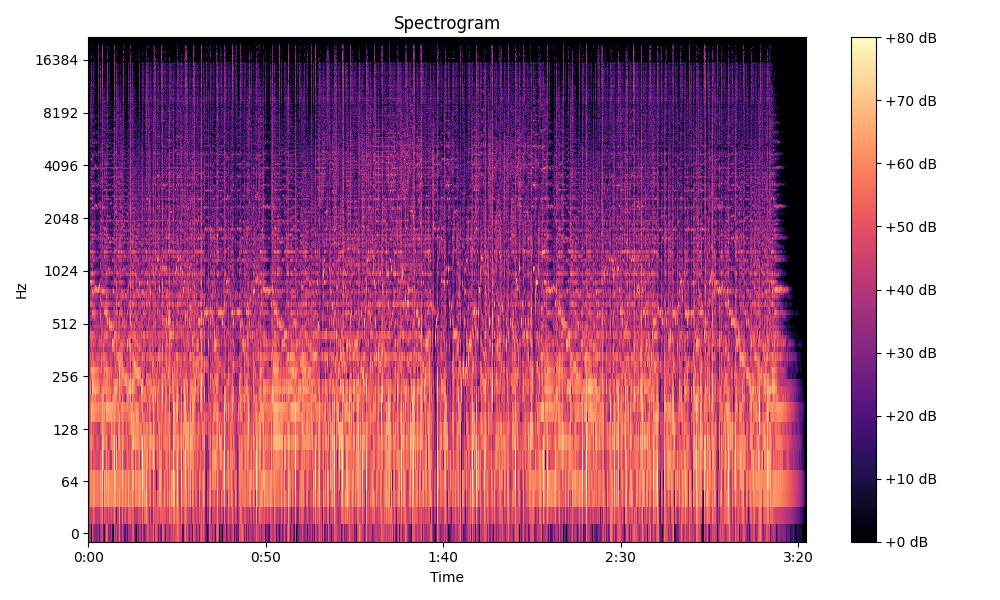
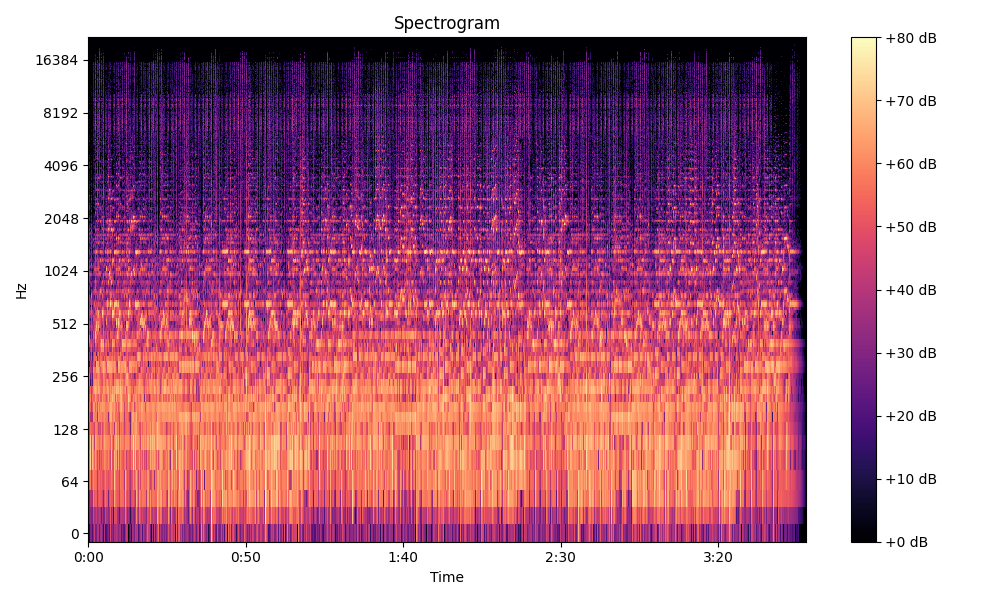
Created a wrapper class for a GUI class, wrapped music_visualizer.py in a function called run_visualizer, fixed various bugs

diff --git a/music_visualizer.py b/music_visualizer.py
@@ -4,99 +4,108 @@ import librosa
 import numpy as np
 import sys
 
+import matplotlib
+matplotlib.use('Agg')  # Use a non-interactive backend for matplotlib
 #Imports for computing a spectrogram
 import matplotlib.pyplot as plt
 import librosa.display
 
 
-#Define config variables
-WINDOW_WIDTH = 800
-WINDOW_HEIGHT = 600
-NUM_BARS = 80
-SMOOTHING_FACTOR = 0.3
-FPS = 60
-AUDIO_FILE = "../music/SmashFull.mp3"
-OUTPUT_SPECTROGRAM_FILE = "spectrogram.png"
+def run_visualizer(gui_object):
+    #Define config variables
+    WINDOW_WIDTH = 800
+    WINDOW_HEIGHT = 600
+    NUM_BARS = 80
+    BAR_COLOR = gui_object.config["bar_color"]
+    SPECTROGRAM_COLOR = gui_object.config["color_map"].get()
+    SMOOTHING_FACTOR = 0.3
+    FPS = 60
+    AUDIO_FILE = gui_object.config["audio_file"]
+    OUTPUT_SPECTROGRAM_FILE = "spectrogram.png"
 
-# Load and play audio asynchronously with librosa
-signal, sr = librosa.load(AUDIO_FILE, sr=None, mono=True)
-#take an absolute valuef the short-time fourier transform of the signal
-s = np.abs(librosa.stft(signal, n_fft=2048, hop_length=512))
+    # Load and play audio asynchronously with librosa
+    signal, sr = librosa.load(AUDIO_FILE, sr=None, mono=True)
+    #take an absolute valuef the short-time fourier transform of the signal
+    s = np.abs(librosa.stft(signal, n_fft=2048, hop_length=512))
 
-#convert to decibels
-s_db = librosa.amplitude_to_db(s, ref=np.max)
+    #convert to decibels
+    s_db = librosa.amplitude_to_db(s, ref=np.max)
 
-#Since librosa outputs negative dB values, need to shift them over so the quiestest parts are 0 dB
-s_db = s_db - s_db.min()
+    #Since librosa outputs negative dB values, need to shift them over so the quiestest parts are 0 dB
+    s_db = s_db - s_db.min()
+    if gui_object.config["show_spectrogram"].get():
+        #plot spectrogram and save to disk
+        plt.figure(figsize=(10, 6))
+        #Creates a spectrogram with a maagma color map
+        #Need to reverse the color map so that louder parts are brighter
+        librosa.display.specshow(s_db, sr=sr, x_axis='time', y_axis='log', cmap=SPECTROGRAM_COLOR)
+        plt.colorbar(format='%+2.0f dB')
+        plt.title('Spectrogram')
+        plt.tight_layout()
+        #Get the name of the file for naming the spectrogram image
+        name = AUDIO_FILE.split('.')[0]
+        plt.savefig(OUTPUT_SPECTROGRAM_FILE)
+        plt.close()
 
-#plot spectrogram and save to disk
-plt.figure(figsize=(10, 6))
-#Creates a spectrogram with a maagma color map
-#Need to reverse the color map so that louder parts are brighter
-librosa.display.specshow(s_db, sr=sr, x_axis='time', y_axis='log', cmap='magma')
-plt.colorbar(format='%+2.0f dB')
-plt.title('Spectrogram')
-plt.tight_layout()
+    signal = (signal * 32767).astype(np.int16)  # Convert to int16 for pygame
 
 
-plt.savefig(OUTPUT_SPECTROGRAM_FILE)
-plt.close()
+    # Initialize Pygame mixer and play audio
+    pg.mixer.init(frequency=sr)
+    pg.mixer.music.load(AUDIO_FILE)
+    pg.mixer.music.play()
 
-signal = (signal * 32767).astype(np.int16)  # Convert to int16 for pygame
+    #Initialize Pygame display
+    pg.init()
+    screen = pg.display.set_mode((WINDOW_WIDTH, WINDOW_HEIGHT))
+    pg.display.set_caption("Music Visualizer")
+    clock = pg.time.Clock()
 
-# Initialize Pygame mixer and play audio
-pg.mixer.init(frequency=sr)
-sound = pg.mixer.Sound(AUDIO_FILE)
-sound.play()
+    chunk_size = len(signal) // (NUM_BARS * 1000)
+    bar_heights_prev = np.zeros(NUM_BARS)
 
-#Initialize Pygame display
-pg.init()
-screen = pg.display.set_mode((WINDOW_WIDTH, WINDOW_HEIGHT))
-pg.display.set_caption("Music Visualizer")
-clock = pg.time.Clock()
+    running = True
+    frame_index=0
 
-chunk_size = len(signal) // (NUM_BARS * 1000)
-bar_heights_prev = np.zeros(NUM_BARS)
+    while running:
+        for event in pg.event.get():
+            if event.type == pg.QUIT:
+                running = False
 
-running = True
-frame_index=0
-
-while running:
-    for event in pg.event.get():
-        if event.type == pg.QUIT:
+        # Check if music is still playing or we've reached the end of the signal
+        if not pg.mixer.music.get_busy() or frame_index >= len(signal):
             running = False
-    #clear screen
-    screen.fill((0, 0, 0))
+            break
 
-    #get frome for fft
-    start = frame_index
-    end = frame_index + chunk_size
-    if end > len(signal):
-        break #end of song
+        #clear screen
+        screen.fill((0, 0, 0))
 
-    frame = signal[start:end]
-    fft = np.fft.fft(frame)
-    mag= np.abs(fft[:NUM_BARS])
-    max_mag = np.max(mag)
-    if max_mag == 0:
-        mag = np.zeros_like(mag)
-    else:
-        mag = mag / max_mag  # Normalize magnitudes
+        #get frame for fft
+        start = frame_index
+        end = frame_index + chunk_size
+        frame = signal[start:end]
+        fft = np.fft.fft(frame)
+        mag= np.abs(fft[:NUM_BARS])
+        max_mag = np.max(mag)
+        if max_mag == 0:
+            mag = np.zeros_like(mag)
+        else:
+            mag = mag / max_mag  # Normalize magnitudes
 
-    #smooth bar heights
-    bar_heights = SMOOTHING_FACTOR * mag + (1 - SMOOTHING_FACTOR) * bar_heights_prev
-    bar_heights_prev = bar_heights
-    bar_heights_pixels = (bar_heights * WINDOW_HEIGHT).astype(int)
+        #smooth bar heights
+        bar_heights = SMOOTHING_FACTOR * mag + (1 - SMOOTHING_FACTOR) * bar_heights_prev
+        bar_heights_prev = bar_heights
+        bar_heights_pixels = (bar_heights * WINDOW_HEIGHT).astype(int)
 
-    #draw bars
-    bar_width = WINDOW_WIDTH / NUM_BARS
-    for i, h in enumerate(bar_heights_pixels):
-        x = int(i * bar_width)
-        y = WINDOW_HEIGHT - h
-        color = (int(255 * bar_heights[i]), 50, 255 - int(255 * bar_heights[i])) #color gradient
-        draw.rect(screen, color, (x,y,int(bar_width*0.8) ,h))
-    pg.display.flip()
-    clock.tick(FPS)
-    frame_index += chunk_size
-pg.quit()
-sys.exit()
+        #draw bars
+        bar_width = WINDOW_WIDTH / NUM_BARS
+        for i, h in enumerate(bar_heights_pixels):
+            x = int(i * bar_width)
+            y = WINDOW_HEIGHT - h
+            color = tuple(int(BAR_COLOR.lstrip('#')[j:j+2], 16) for j in (0, 2, 4))
+            draw.rect(screen, color, (x,y,int(bar_width*0.8) ,h))
+        pg.display.flip()
+        clock.tick(FPS)
+        frame_index += chunk_size
+
+    pg.quit()

diff --git a/gui.py b/gui.py
@@ -1,0 +1,87 @@
+#Imports for GUI
+import tkinter as tk
+from tkinter import filedialog, colorchooser
+import threading
+
+"""
+GUI Logic, first goal is being able to select and audio file,
+next goal is being able to check spectrogram generation
+finally, being able to select config variables like window height
+width, etc.
+
+"""
+
+
+class music_visualizer_gui:
+    def __init__(self, visualizer_callback):
+        self.root = tk.Tk()
+        self.root.title("Music Visualizer Config")
+        self.root.geometry("400x400")
+        self.visualizer_callback = visualizer_callback
+
+        #initialize config variables
+        self.config = {
+            "audio_file": None,
+            "show_spectrogram": tk.BooleanVar(value=True),
+            "color_map": tk.StringVar(value="magma"),
+            "bar_color": "#FF00FF"
+        }
+        self.btn_file = tk.Button(self.root, text="Choose Audio File", command=self.choose_file)
+        self.btn_file.pack(pady=5)
+        self.lbl_file = tk.Label(self.root, text="No file selected")
+        self.lbl_file.pack(pady=5)
+
+        self.lbl_status = tk.Label(self.root, text="", fg="black")
+        self.lbl_status.pack(pady=5)
+
+
+        self.chk_spectrogram = tk.Checkbutton(self.root, text="Generate Spectrogram", variable=self.config["show_spectrogram"])
+        self.chk_spectrogram.pack(pady=5)
+
+        self.btn_color = tk.Button(self.root, text="Choose Bar Color", command=self.choose_color)
+        self.btn_color.pack(pady=5)
+        self.lbl_color = tk.Label(self.root, text=self.config["bar_color"])
+        self.lbl_color.pack(pady=5)
+        
+        btn_start = tk.Button(self.root, text="Start Visualizer", command=self.start_visualizer)
+        btn_start.pack(pady=20)
+        self.visualizer_thread = None
+
+
+    def run(self):
+        self.root.mainloop()
+
+    #function for selecting an audio file
+    def choose_file(self):
+        file = filedialog.askopenfilename(
+            title="Select Audio File",
+            filetypes=[("Audio Files", "*.mp3 *.wav *.flac *.ogg")])
+        if file:
+            self.config["audio_file"] = file
+            self.lbl_file.config(text=file)
+    #fucntion for choosing a color for the bars in the visualizer
+    def choose_color(self):
+        color = colorchooser.askcolor(title="Choose Bar Color")[1] 
+        if color:
+            self.config["bar_color"] = color
+            self.lbl_color.config(bg=color)
+    #function to start the visualizer
+
+    def start_visualizer(self):
+        if self.visualizer_thread and self.visualizer_thread.is_alive():
+            self.lbl_status.config(text="Visualizer is already running.", fg="red")
+            return
+        if not self.config["audio_file"]:
+            self.lbl_status.config(text="Please select an audio file first.", fg="red")
+            return
+        self.lbl_status.config(text="Starting visualizer...", fg="green")
+        self.visualizer_thread = threading.Thread(target=self.visualizer_callback, args=(self,), daemon=True)
+        self.visualizer_thread.start()
+        self.check_visualizer_thread()
+
+    def check_visualizer_thread(self):
+        if self.visualizer_thread.is_alive():
+            self.root.after(500, self.check_visualizer_thread)
+        else:
+            self.lbl_status.config(text="Visualizer finished.", fg="blue")
+    

diff --git a/main.py b/main.py
@@ -1,0 +1,6 @@
+import gui
+import music_visualizer
+
+if __name__ == "__main__":
+    gui = gui.music_visualizer_gui(music_visualizer.run_visualizer)
+    gui.run()
